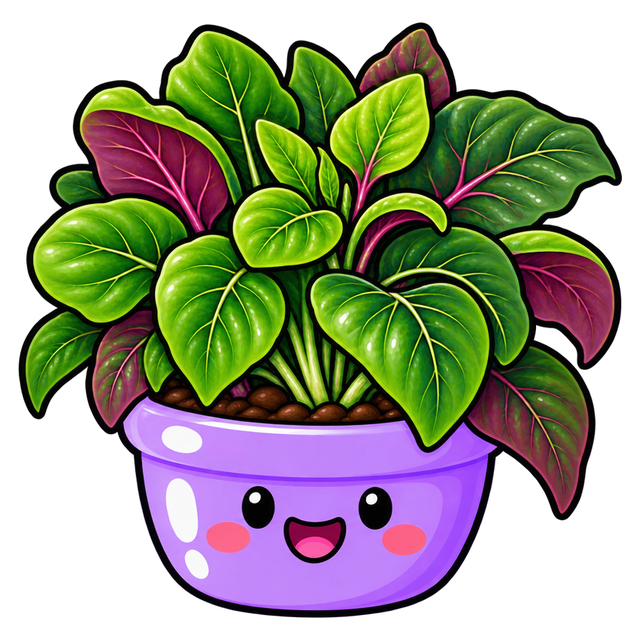
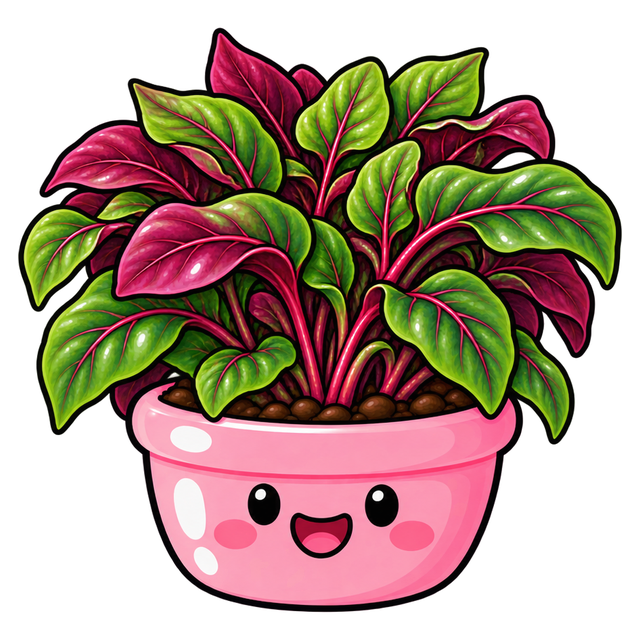
Arugula gets its own buddy; amaranth swaps to the red-leaf drawing
Claude-Session: https://claude.ai/code/session_015RxAJdHfQtruXpuwTDDmmx

diff --git a/src/data/catalog/edibles.ts b/src/data/catalog/edibles.ts
@@ -31,7 +31,7 @@ export const EDIBLE_PLANTS: Species[] = [
   { id: 'kale', commonName: 'Kale', latinName: 'Brassica oleracea var. sabellica', group: 'edible', defaultSoil: 'veg_mix', defaultLight: 'direct', petToxic: false, edible: true, artPot: 'bubblegum', art: 'kale', category: 'vegetable', popular: true, aliases: ['borecole', 'curly kale', 'lacinato', 'cavolo nero', 'dinosaur kale'], tip: 'Seattle’s winter MVP: frost makes it sweeter. Pick the lowest leaves and let the top keep growing.' },
   { id: 'chard', commonName: 'Swiss chard', latinName: 'Beta vulgaris subsp. vulgaris (Cicla group)', group: 'edible', defaultSoil: 'veg_mix', defaultLight: 'bright', petToxic: false, edible: true, artPot: 'bubblegum', art: 'chard', category: 'vegetable', aliases: ['chard', 'silverbeet', 'rainbow chard', 'perpetual spinach', 'leaf beet'], tip: 'Twist off outer stalks at the base. One pot crops from spring right through a mild winter.' },
   { id: 'spinach', commonName: 'Spinach', latinName: 'Spinacia oleracea', group: 'edible', defaultSoil: 'veg_mix', defaultLight: 'bright', petToxic: false, edible: true, artPot: 'grape', art: 'spinach', category: 'vegetable', tip: 'A cool-weather crop: long summer days make it bolt. Sow in spring and again in late August.' },
-  { id: 'arugula', commonName: 'Arugula', latinName: 'Eruca vesicaria', group: 'edible', defaultSoil: 'veg_mix', defaultLight: 'bright', petToxic: false, edible: true, artPot: 'grape', art: 'basil', category: 'vegetable', aliases: ['rocket', 'roquette', 'rucola'], match: { species: ['eruca sativa'] }, tip: 'Ready in about four weeks. Cut and it regrows; peppery flowers mean it’s time to resow.' },
+  { id: 'arugula', commonName: 'Arugula', latinName: 'Eruca vesicaria', group: 'edible', defaultSoil: 'veg_mix', defaultLight: 'bright', petToxic: false, edible: true, artPot: 'grape', art: 'arugula', category: 'vegetable', aliases: ['rocket', 'roquette', 'rucola'], match: { species: ['eruca sativa'] }, tip: 'Ready in about four weeks. Cut and it regrows; peppery flowers mean it’s time to resow.' },
   { id: 'bok-choy', commonName: 'Bok choy', latinName: 'Brassica rapa subsp. chinensis', group: 'edible', defaultSoil: 'veg_mix', defaultLight: 'bright', petToxic: false, edible: true, artPot: 'grape', art: 'bok-choy', category: 'vegetable', aliases: ['pak choi', 'pak choy', 'chinese cabbage', 'baby bok choy'], tip: 'Bolts in heat and long days. Best sown in spring or late summer; cut 3 cm above the base to regrow.' },
   { id: 'mustard-greens', commonName: 'Mustard greens', latinName: 'Brassica juncea', group: 'edible', defaultSoil: 'veg_mix', defaultLight: 'bright', petToxic: false, edible: true, artPot: 'bubblegum', art: 'mustard-greens', category: 'vegetable', aliases: ['mustard', 'red giant mustard', 'mizuna mustard', 'gai choy'], tip: 'Tough, fast and spicy. Sow in autumn for leaves all winter on a Seattle balcony.' },
   { id: 'microgreens', commonName: 'Microgreens', latinName: 'Brassicaceae spp.', group: 'moisture', defaultSoil: 'coir', defaultLight: 'bright', petToxic: false, edible: true, artPot: 'grape', art: 'microgreens', category: 'vegetable', aliases: ['micro greens', 'pea shoots', 'radish sprouts', 'cress'], tip: 'A tray on a bright sill gives a harvest in 10–14 days, even in a dark Seattle December.' },
@@ -61,7 +61,7 @@ export const EDIBLE_PLANTS: Species[] = [
   // West African leaves.
   { id: 'kontomire', commonName: 'Kontomire', latinName: 'Xanthosoma sagittifolium', group: 'moisture', defaultSoil: 'veg_mix', defaultLight: 'bright', petToxic: true, edible: true, artPot: 'bubblegum', art: 'kontomire', category: 'vegetable', aliases: ['cocoyam leaves', 'cocoyam', 'taro leaves', 'malanga', 'tannia', 'nkontommire'], match: { species: ['colocasia esculenta'] }, tip: 'Leaves must be cooked well (raw ones sting). Keep it moist and warm; a big pot indoors in Seattle.' },
   { id: 'ayoyo', commonName: 'Ayoyo', latinName: 'Corchorus olitorius', group: 'edible', defaultSoil: 'veg_mix', defaultLight: 'direct', petToxic: false, edible: true, artPot: 'yellow', art: 'basil', category: 'vegetable', aliases: ['jute mallow', 'jute leaves', 'ademe', 'molokhia', 'saluyot'], tip: 'Pinch the tips for soup and it branches out. Loves heat and rain; a summer pot in Seattle.' },
-  { id: 'amaranth', commonName: 'Amaranth greens', latinName: 'Amaranthus cruentus', group: 'edible', defaultSoil: 'veg_mix', defaultLight: 'direct', petToxic: false, edible: true, artPot: 'grape', art: 'amaranth', category: 'vegetable', aliases: ['aleefu', 'alefu', 'callaloo', 'African spinach', 'green amaranth'], match: { genus: ['amaranthus'] }, tip: 'Cut stems at 20 cm and it grows back. Fast in the heat, so sow it warm.' },
+  { id: 'amaranth', commonName: 'Amaranth greens', latinName: 'Amaranthus cruentus', group: 'edible', defaultSoil: 'veg_mix', defaultLight: 'direct', petToxic: false, edible: true, artPot: 'bubblegum', art: 'amaranth', category: 'vegetable', aliases: ['aleefu', 'alefu', 'callaloo', 'African spinach', 'green amaranth'], match: { genus: ['amaranthus'] }, tip: 'Cut stems at 20 cm and it grows back. Fast in the heat, so sow it warm.' },
   { id: 'roselle', commonName: 'Roselle', latinName: 'Hibiscus sabdariffa', group: 'edible', defaultSoil: 'veg_mix', defaultLight: 'direct', petToxic: false, edible: true, artPot: 'coral', art: 'pepper', category: 'herb', aliases: ['sobolo', 'bissap', 'sorrel (Caribbean)', 'zobo', 'karkade'], tip: 'Red calyces make sobolo; young leaves are a sour green. Flowers as days shorten, so sow early.' },
 
   // Herbs.

diff --git a/src/data/catalog/catalog.test.ts b/src/data/catalog/catalog.test.ts
@@ -4,7 +4,7 @@ import { EDIBLE_PLANTS } from './edibles';
 import { CALENDAR, EDIBLES } from '../edibles';
 import { OTHER, SPECIES_LIST, searchSpecies, speciesOf } from '../species';
 
-const ART = ['monstera', 'pothos', 'fig', 'calathea', 'snake', 'hoya', 'peace-lily', 'zz', 'string-of-pearls', 'pink-princess', 'aloe', 'spider', 'rubber', 'bird-of-paradise', 'basil', 'mint', 'tomato', 'pepper', 'bell-pepper', 'potato', 'sweet-potato', 'okra', 'cucumber', 'zucchini', 'lettuce', 'kale', 'garlic', 'carrot', 'garden-egg', 'eggplant', 'ginger', 'radish', 'chard', 'spinach', 'pea', 'runner-bean', 'mustard-greens', 'microgreens', 'kontomire', 'fava-bean', 'bush-bean', 'amaranth', 'leek', 'bok-choy', 'spring-onion'];
+const ART = ['monstera', 'pothos', 'fig', 'calathea', 'snake', 'hoya', 'peace-lily', 'zz', 'string-of-pearls', 'pink-princess', 'aloe', 'spider', 'rubber', 'bird-of-paradise', 'basil', 'mint', 'tomato', 'pepper', 'bell-pepper', 'potato', 'sweet-potato', 'okra', 'cucumber', 'zucchini', 'lettuce', 'kale', 'garlic', 'carrot', 'garden-egg', 'eggplant', 'ginger', 'radish', 'chard', 'spinach', 'pea', 'runner-bean', 'mustard-greens', 'microgreens', 'kontomire', 'fava-bean', 'bush-bean', 'amaranth', 'leek', 'bok-choy', 'arugula', 'spring-onion'];
 const SOILS = ['potting_mix', 'chunky_aroid', 'gritty', 'perlite_mix', 'bagged_cactus', 'veg_mix', 'coir', 'moisture_control', 'moss', 'garden_soil', 'leca', 'water', 'unsure'];
 const ALL = [...HOUSEPLANTS, ...EDIBLE_PLANTS];
 

diff --git a/src/data/buddyImages.ts b/src/data/buddyImages.ts
@@ -189,6 +189,11 @@ export const BUDDY_IMAGES: Record<ArtId | 'cutting', Record<Mood, ImageSourcePro
     thirsty: require('../../assets/buddies/bok-choy-happy.png'),
     snoozing: require('../../assets/buddies/bok-choy-happy.png'),
   },
+  'arugula': {
+    happy: require('../../assets/buddies/arugula-happy.png'),
+    thirsty: require('../../assets/buddies/arugula-happy.png'),
+    snoozing: require('../../assets/buddies/arugula-happy.png'),
+  },
   'pink-princess': {
     happy: require('../../assets/buddies/pink-princess-happy.png'),
     thirsty: require('../../assets/buddies/pink-princess-thirsty.png'),

diff --git a/src/data/art.test.ts b/src/data/art.test.ts
@@ -12,9 +12,9 @@ describe('illustration assets', () => {
     for (const r of refs) expect(existsSync(join(root, r)), r).toBe(true);
   });
 
-  it('has the 86 plant buddies in the names the app loads: {plant}-{mood}.png', () => {
+  it('has the 87 plant buddies in the names the app loads: {plant}-{mood}.png', () => {
     const files = readdirSync(join(root, 'assets', 'buddies'));
-    expect(files.length).toBe(86);
+    expect(files.length).toBe(87);
     for (const f of files) expect(f).toMatch(/^[a-z0-9-]+-(happy|thirsty|snoozing)\.png$/);
   });
 });

diff --git a/src/components/PlantBuddy.tsx b/src/components/PlantBuddy.tsx
@@ -42,6 +42,7 @@ const ART_FOR: Record<ArtId, Art> = {
   zucchini: 'pothos',
   lettuce: 'calathea',
   kale: 'calathea',
+  arugula: 'calathea',
   'bok-choy': 'calathea',
   leek: 'onion',
   amaranth: 'calathea',

diff --git a/src/types.ts b/src/types.ts
@@ -92,6 +92,7 @@ export type ArtId =
   | 'cucumber'
   | 'zucchini'
   | 'lettuce'
+  | 'arugula'
   | 'bok-choy'
   | 'leek'
   | 'amaranth'
